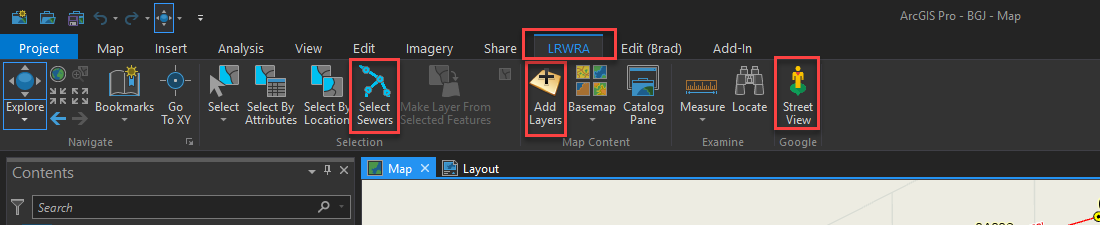
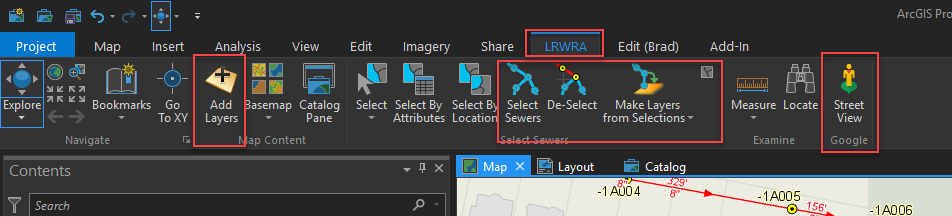
Finalised the select sewers controls ad modified README.md

diff --git a/README.md b/README.md
@@ -3,8 +3,6 @@ Primary ArcGIS Pro add-in created for Little Rock Water Reclamation Authority GI
 
 Add-in also contains code to log all exceptions thrown by users to a **.txt** file on my organizations network.
 
-
-
  
 
 Original tools and controls used in this add-in can also be found in individual repositories
@@ -13,7 +11,7 @@ Original tools and controls used in this add-in can also be found in individual 
 
 [Google Street View](https://github.com/dogwoodgeo/ArcGIS-Pro-GoogleStreetView)
 
-Select Sewers: Coming soon.
+[Select Sewers](https://github.com/dogwoodgeo/ArcGIS-Pro-SewerSelect)
 
 
 
@@ -32,14 +30,14 @@ Clone or download the repository. Open Visual Studio 2015 or 2017, build solutio
 ### Prerequisites
 
 ```
-Language:	C#
-Contributor:	Bradley Jones, bjones@dogwoodgeo.com
-Organization:	Little Rock Water Reclamation Authority (LRWRA)
-Org Site:	https://git.lrwu.com/portal
-Date:	9/20/2018
-ArcGIS Pro:	2.2
-ArcGIS Pro SDK:	2.2
-Visual Studio:	2017, 2015
+Language:				C#
+Contributor:			Bradley Jones, bjones@dogwoodgeo.com
+Organization:			Little Rock Water Reclamation Authority (LRWRA)
+Org Site:				https://git.lrwu.com/portal
+Date:					9/20/2018
+ArcGIS Pro:				2.2
+ArcGIS Pro SDK:			2.2
+Visual Studio:			2017, 2015
 .NET Target Framework:	4.6.1
 ```
 
